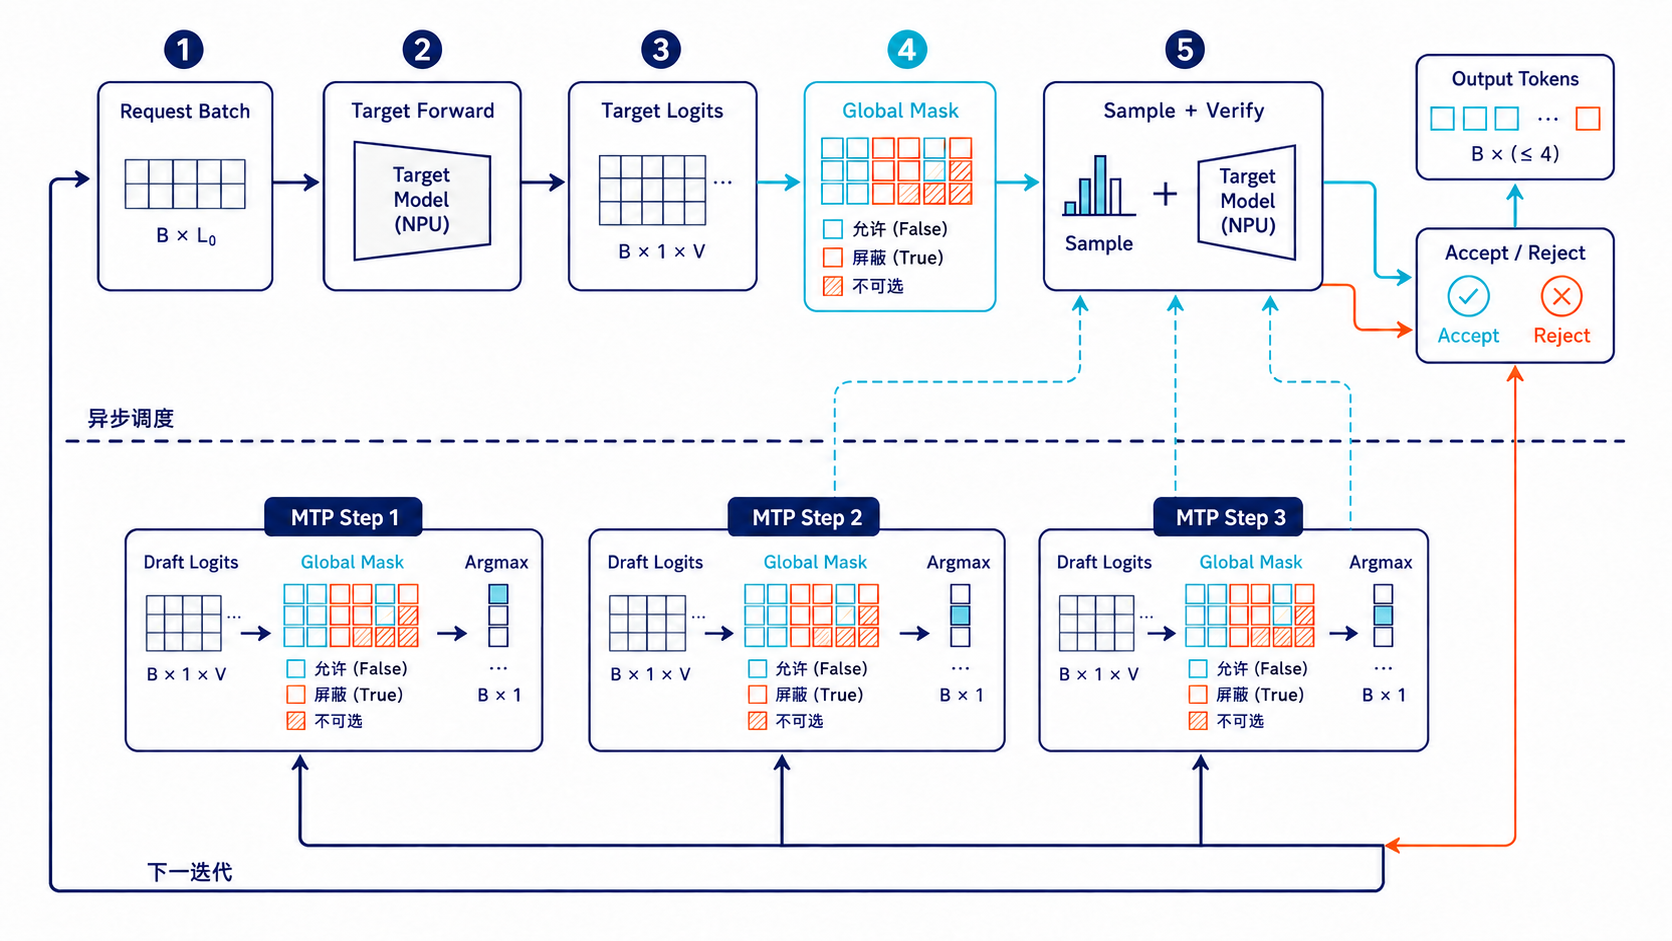
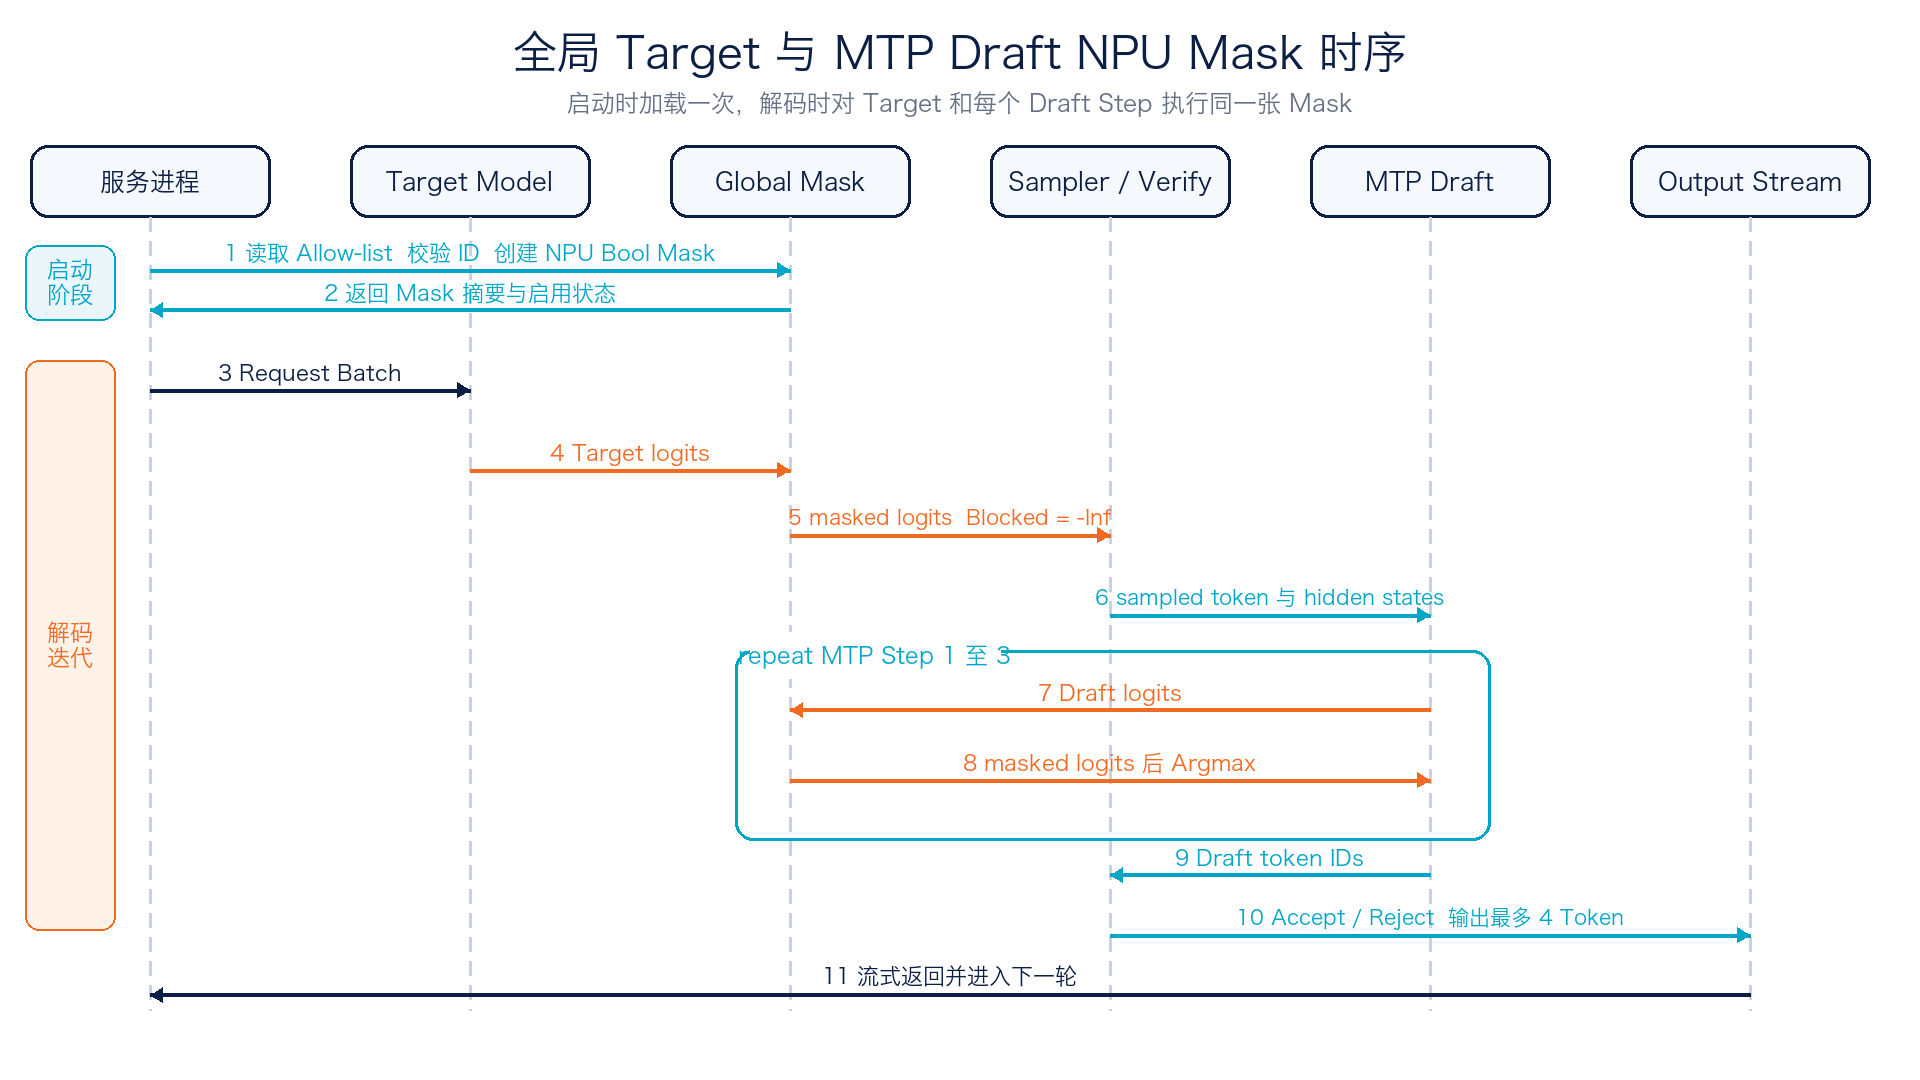
docs: refine global mask design and diagrams

diff --git a/docs/design/assets/qwen36_global_mask/PROMPTS.md b/docs/design/assets/qwen36_global_mask/PROMPTS.md
@@ -1,26 +1,19 @@
 # 配图生成记录
 
-- 工具：Codex built-in `image_gen`
-- 样式库模板：`Infographic Engine`
-- 示例案例：case 334、case 1、case 8
-- 统一风格：扁平化工业技术信息图 / Technical Whitepaper Infographic；白色或极浅灰背景、深海军蓝结构线、青色正常路径、橙色屏蔽/风险路径；禁止渐变、霓虹、玻璃拟态、人物、伪 3D 和水印。
+所有配图遵循 Infographic Engine 风格：白色或极浅灰背景、深海军蓝结构线、青色表示正常路径、橙色表示屏蔽和风险；不使用渐变、霓虹、玻璃拟态、人物或伪 3D。
 
-## 01-overview.png
+## 01 overview
 
-16:9 总体架构图。按 `Allow-list 文件 → 启动时加载 → NPU Bool Mask` 展开，分为 `Target Logits` 和 `MTP Draft Logits` 两路，均经过 `Blocked → -Inf`，汇入 `Sampler / Verify → English Output`；底部精确标注 `Embedding / LM Head 维度不变`。
+使用 Codex built-in image generation 生成。总体链路为 `Allow-list 文件 -> 启动时加载 -> NPU Bool Mask`，随后分成 `Target Logits` 和 `MTP Draft Logits` 两路，均执行 `Blocked -> -Inf`，最后进入 `Sampler / Verify -> English Output`。底部标注 `Embedding / LM Head 维度不变`。
 
-## 02-mask-generation.png
+## 02 mask generation
 
-16:9 Mask 生成流程图。模块为 `Tokenizer 枚举 → 单 Token 解码 → ASCII / EOS / 必需协议 Token? → Allowed IDs / Blocked IDs → Bool Mask: False / True → 上 NPU + SHA 校验`；侧栏标注 `每个模型单独生成`、`Qwen3.6` 和 `DS V4 Flash`。
+使用 Codex built-in image generation 生成。流程为 `Tokenizer 枚举 -> 单 Token 解码 -> ASCII / EOS / 必需协议 Token -> Allowed IDs / Blocked IDs -> Bool Mask -> 上 NPU + SHA 校验`，并强调每个模型单独生成 Mask。
 
-## 03-runtime-loop.png
+## 03 runtime sequence
 
-16:9 投机解码时序图。主链为 `Request Batch → Target Forward → Target Logits → Global Mask → Sample + Verify → Accept / Reject → Output Tokens`；下方三个模块分别为 `MTP Step 1/2/3: Draft Logits → Global Mask → Argmax`，虚线标注 `异步调度`。Bool 图例必须为 `允许 (False)`、`屏蔽 (True)`；MTP3 最大单轮输出标注 `B × (≤ 4)`。
+使用确定性 Pillow 绘制，确保时序和文字准确。参与者为服务进程、Target Model、Global Mask、Sampler / Verify、MTP Draft 和 Output Stream。图区分启动阶段和解码迭代，包含三个 MTP Draft step 的 repeat 区域，并标明 MTP3 单轮最多输出四个 Token。
 
-## 04-model-adaptation.png
+## 05 validation method
 
-16:9 双栏模型适配图。左栏 `Qwen3.6 27B / Vocab 248320 / Target LM Head / MTP Draft Head / 同一 Bool Mask`；右栏 `DS V4 Flash / Vocab 129280 / Main Head / MTP / DSpark Head / 模型专属 Mask`；中央原则 `Mask Logits, 不改权重`；底部边界 `Qwen: 已穿刺`、`DS V4: 仅方案分析`。
-
-## 05-validation-method.png
-
-16:9 验证方法图。8 张 NPU 划分为 `TP4 Base: NPU 0-3` 和 `TP4 Mask: NPU 4-7`，显示 `AB / BA 卡组互换`；负载为 `Natural English / HellaSwag / 8K Input / 1K Output / Concurrency 8 / 80 Requests`；证据链为 `中文输出用例`、`ARC-Challenge + HellaSwag`、`TTFT / TPOT / Throughput / Accept Rate → Raw JSON → RAW_RESULTS.md → 设计说明书`。
+使用确定性 Pillow 绘制，明确区分三条证据链：效果验证、精度验证、性能验证。三条链分别输出 `language_*.json`、`accuracy_*.json`、`perf_*.json`，再汇入 `RESULT_SUMMARY.json`、`RAW_RESULTS.md` 和设计说明书。
